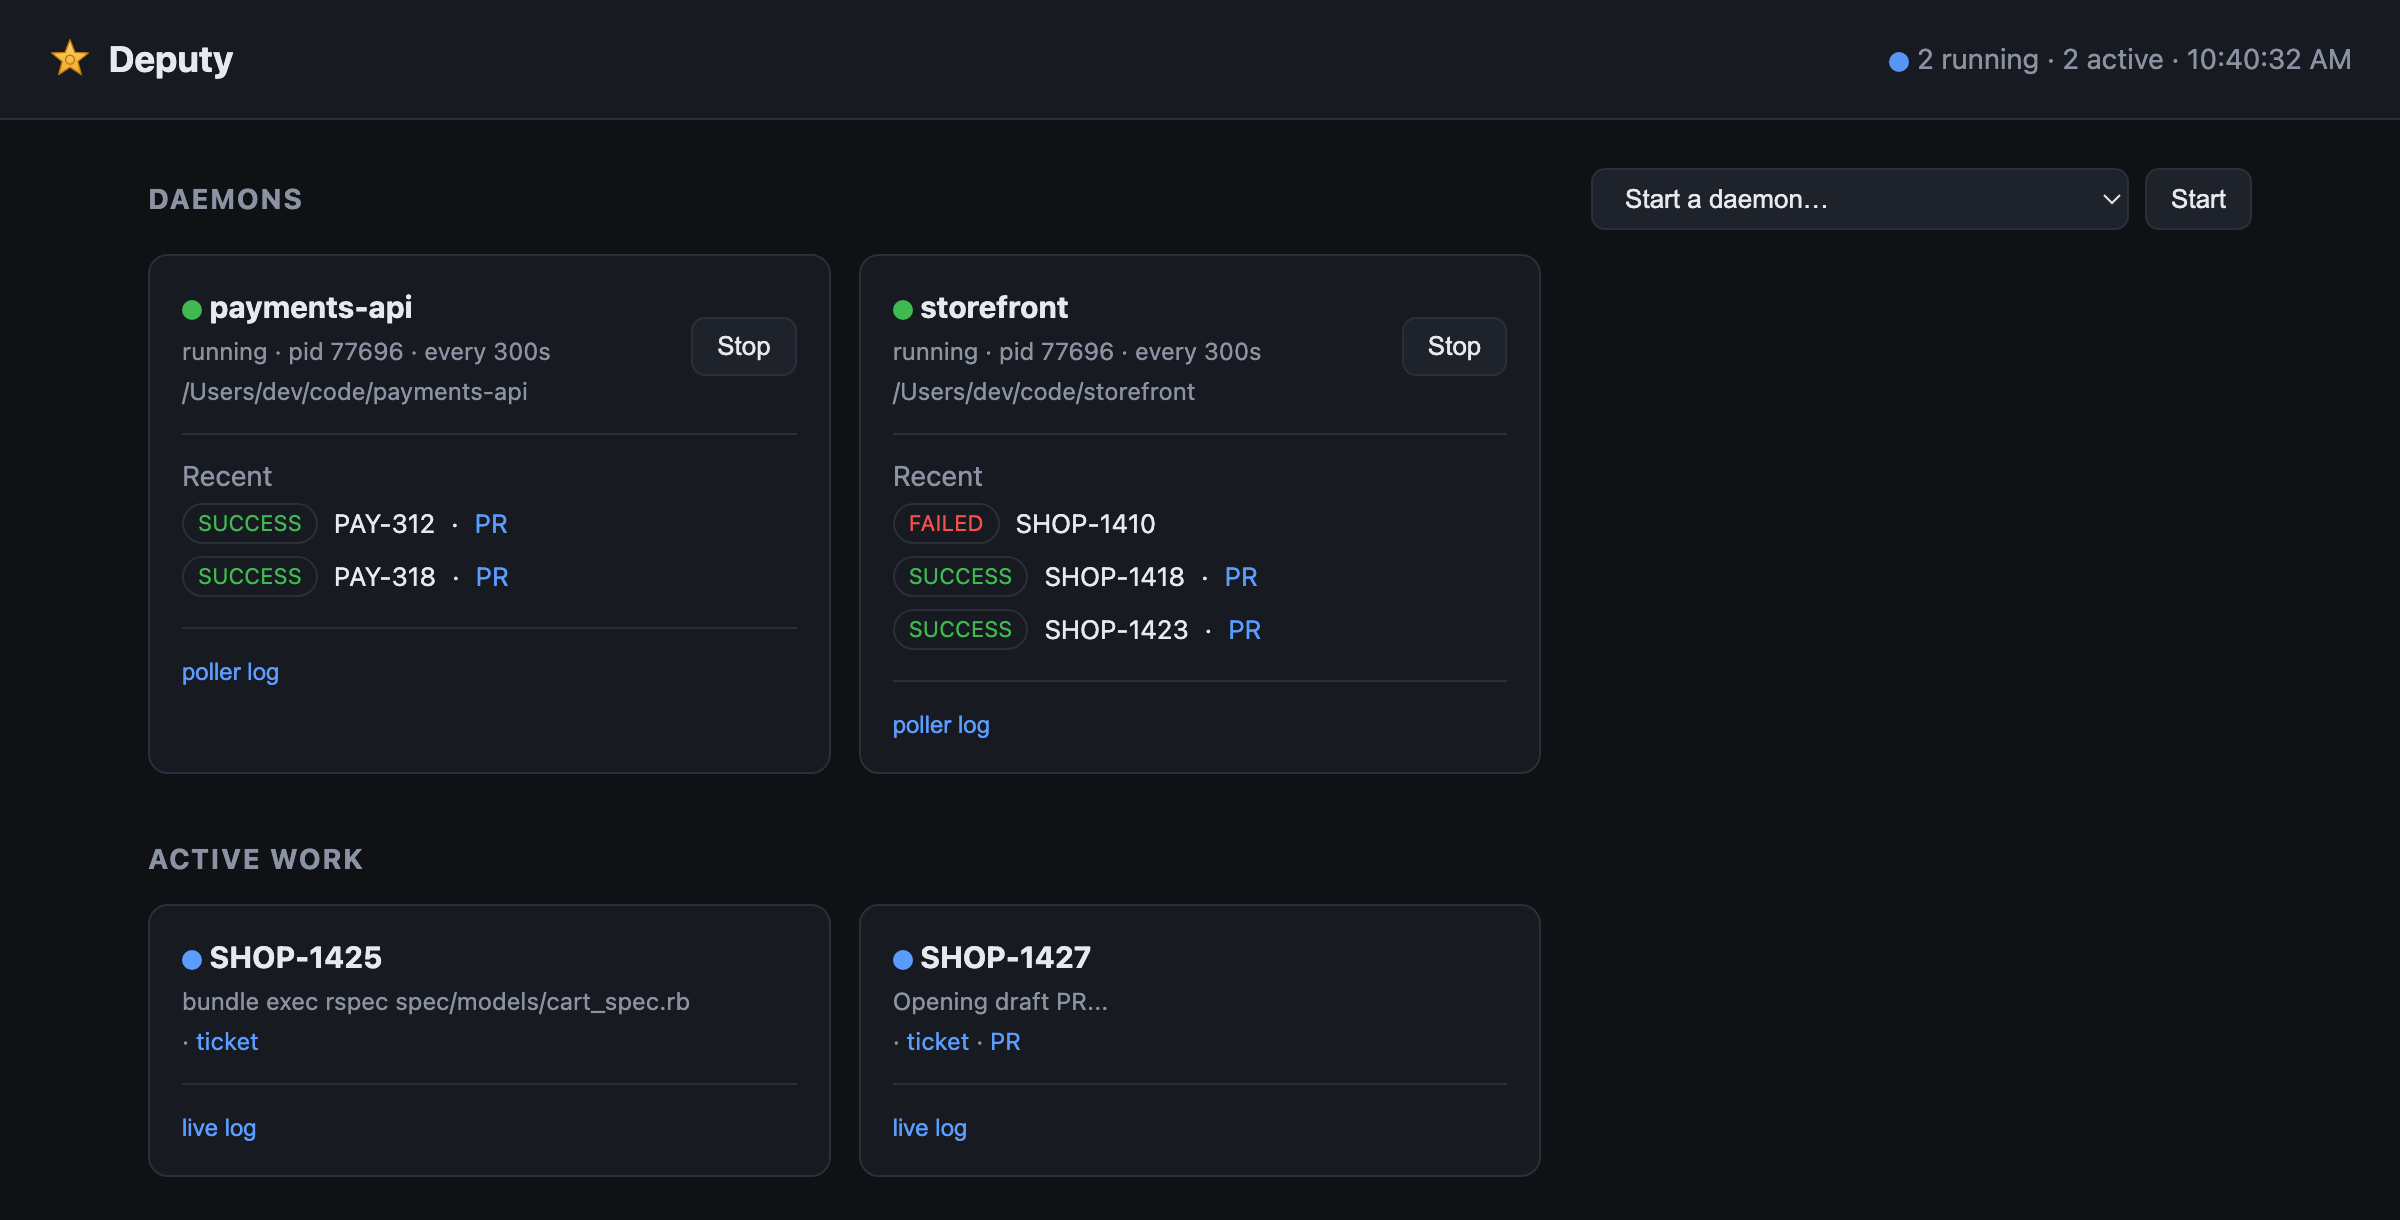
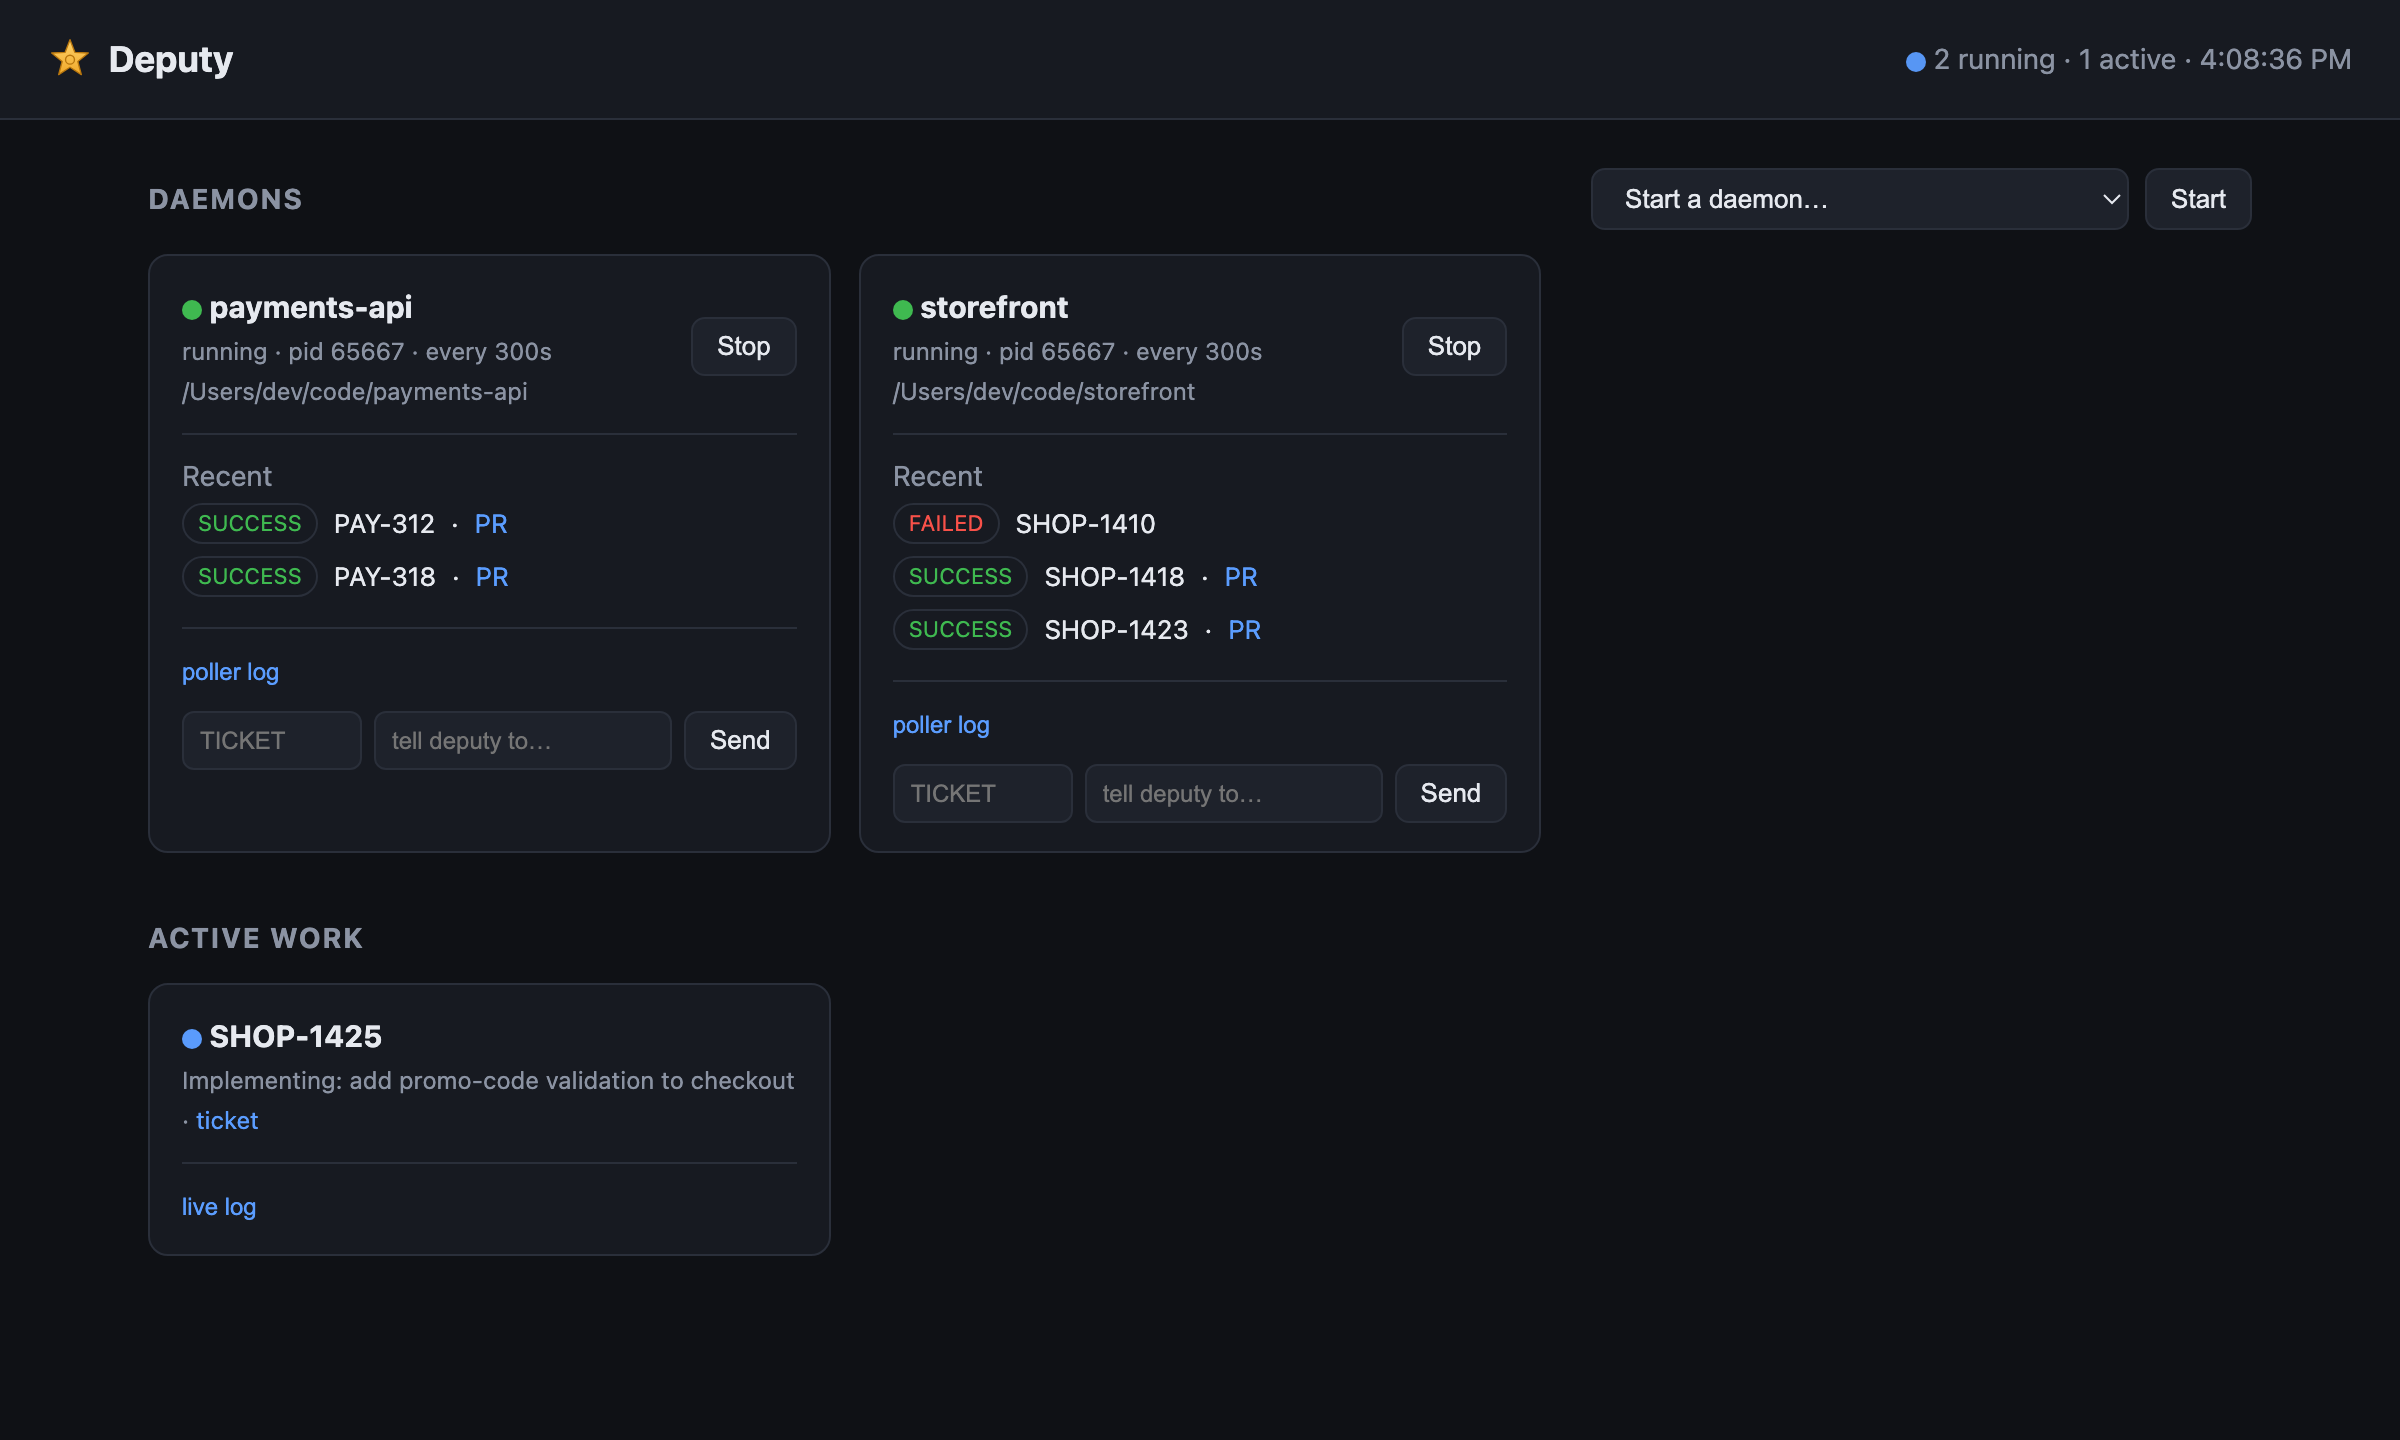
docs: refresh screenshot (tell-deputy box) + document CI fix, follow-ups, commands

diff --git a/README.md b/README.md
@@ -25,12 +25,17 @@ you're working on.
 ## Highlights
 
 - **Fully autonomous loop** — poll → implement → push → draft PR → advance the item.
+- **Fixes its own CI** — watches its PRs; when CI goes red it pulls the failures +
+  annotations and pushes a fix automatically.
+- **Follow-ups without leaving the terminal** — tell it "do X next" on any ticket's
+  PR from the dashboard box or `deputy continue <TICKET> "…"`. No PR/Jira comments.
 - **Pluggable trackers** — Jira and GitHub Issues built in; add another in ~80 lines.
+- **Not locked to Claude** — the agent is a swappable command (`DEPUTY_AGENT_CMD`).
 - **Isolated by construction** — one git worktree per item, off `origin/main`,
-  on a detached HEAD. Your working tree is never touched.
+  on a detached HEAD, with its own deps installed. Your working tree is never touched.
 - **Concurrent** — processes multiple items at once, each fully sandboxed.
-- **Live dashboard** — see every daemon, what it's working on right now (with
-  streaming logs), recent PRs, and Start/Stop controls.
+- **Live dashboard** — every daemon, what it's working on now (streaming logs),
+  recent PRs, Start/Stop, and a "tell deputy" box.
 - **Zero company lock-in** — all config lives in `.env`; the repo carries no
   secrets and nothing employer-specific. Fork it, point it anywhere.
 
@@ -53,6 +58,26 @@ Launch the dashboard:
 ```bash
 npm run dashboard        # http://localhost:4319
 ```
+
+Other commands:
+
+```bash
+bin/daemon restart
+bin/daemon continue <TICKET> "also handle the empty state"   # follow-up on its PR
+bin/daemon stop-ticket <TICKET>                              # cancel one in-flight job
+```
+
+## Follow-ups & CI fixes (no comments)
+
+Once a ticket has a PR, you can nudge it without touching GitHub/Jira:
+
+- **Dashboard:** type a ticket + instruction in the "tell deputy…" box, hit Send.
+- **CLI:** `deputy continue <TICKET> "…"`.
+
+Either way the instruction is queued; deputy re-checks-out that PR's branch, runs
+the agent with your note, and pushes to the same PR. **Red CI is handled on its
+own** — no need to ask. (These run follow-ups on an existing PR; they don't steer
+an agent that's mid-implementation.)
 
 ## Trackers
 
@@ -90,7 +115,7 @@ the agent, and the dashboard are all tracker-agnostic.
 - The dashboard and the control API are decoupled: the API reads daemon state
   from `/tmp` and shells out to `bin/daemon`, so any front-end (web, a macOS menu
   bar widget, a CLI) can reuse the same endpoints:
-  `/api/status`, `/api/start`, `/api/stop`, `/api/log`.
+  `/api/status`, `/api/start`, `/api/stop`, `/api/log`, `/api/continue`.
 
 ## Layout
 
